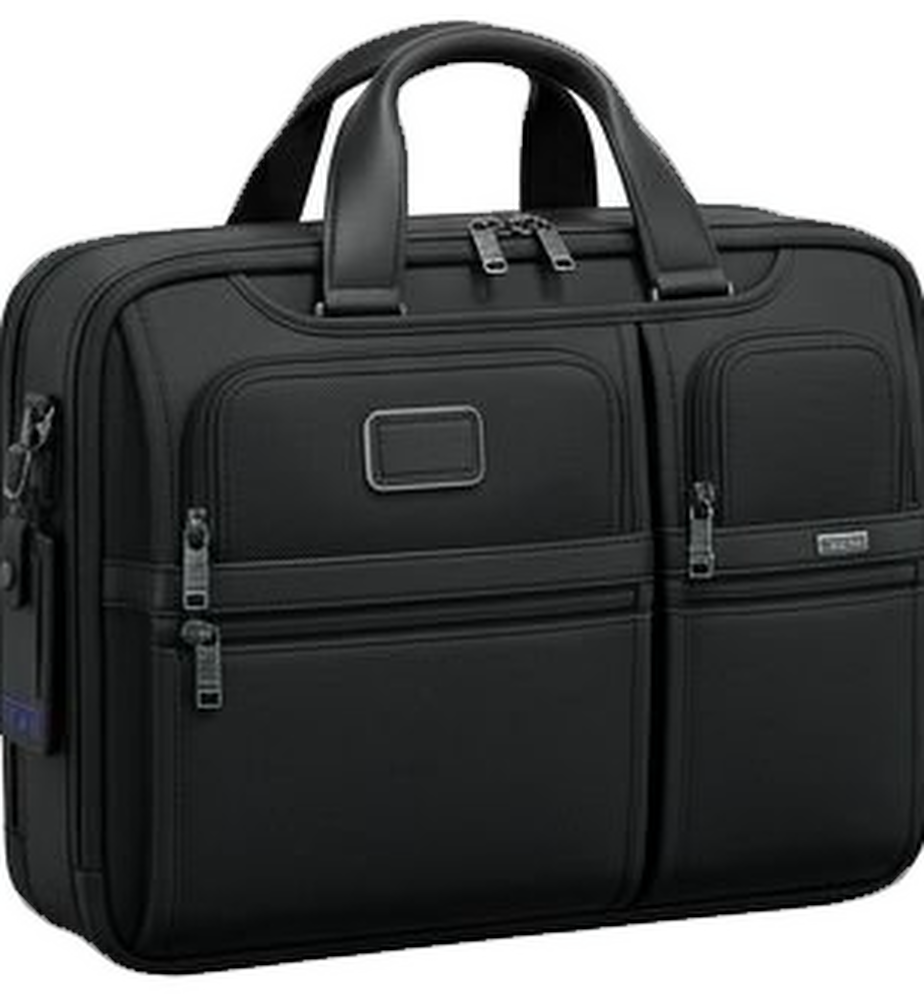
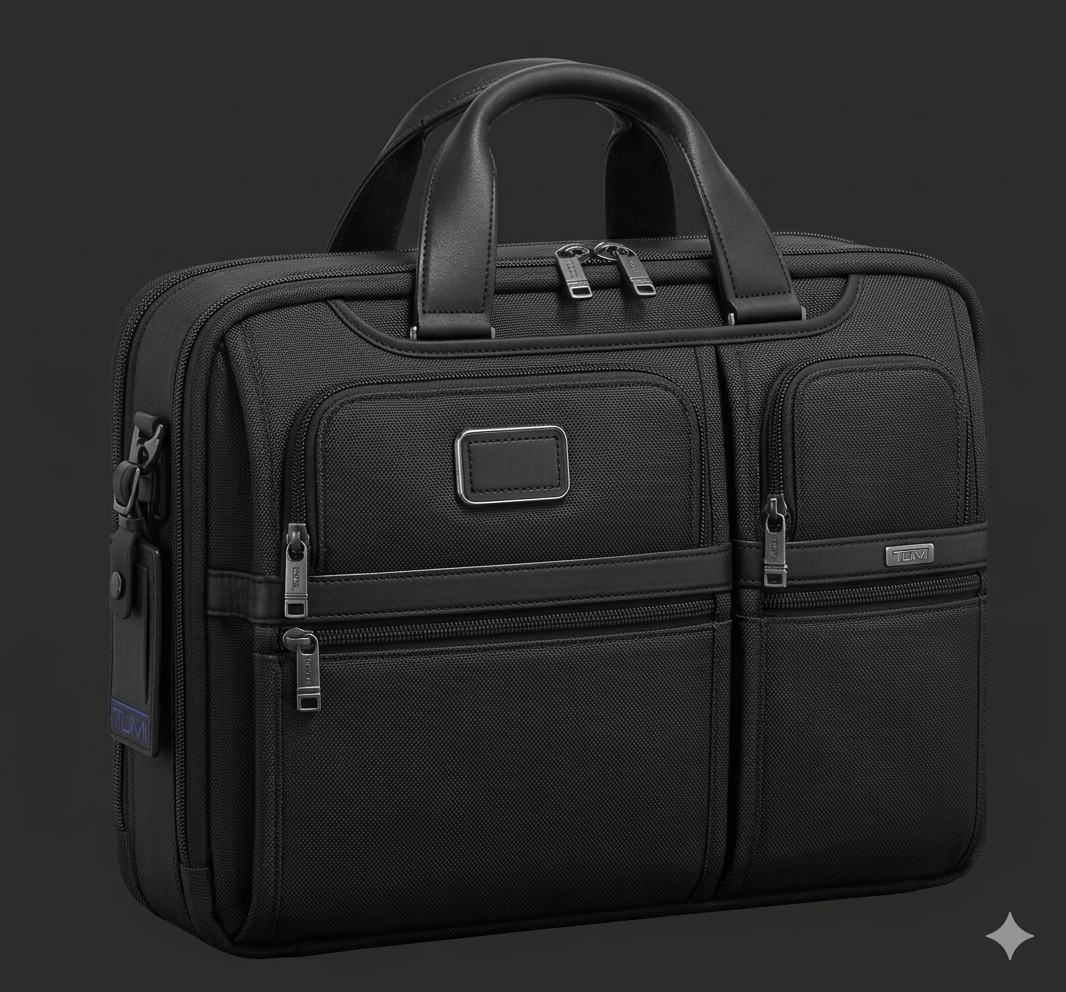
remove carousel

diff --git a/src/pages/BagListing.jsx b/src/pages/BagListing.jsx
@@ -1,11 +1,11 @@
 import { useState, useEffect, useRef, useCallback } from "react";
 import heroBagImg from "../assets/hero_final1.png";
+import heroFinal2 from "../assets/hero_final2.png";
 import { useAuth } from "../context/AuthContext";
 import { useNavigate } from "react-router-dom";
 import { getAllBags, deleteBag } from "../services/bagService";
 import { getAllCategories, deleteCategory } from "../services/categoryService";
 import HeroParticleReveal from "../components/HeroParticleReveal";
-import HeroCarousel3D from "../components/HeroCarousel3D";
 
 /* ── Logo with animated zipper canvas overlay ── */
 const LogoWithZipper = ({ src }) => {
@@ -367,8 +367,136 @@ const BagListing = () => {
             </header>
 
             {/* ── Hero ── */}
-            {/* ── 3D Hero Carousel ── */}
-            <HeroCarousel3D />
+            {/* ── Static Hero Image ── */}
+            <div style={{
+                position: "relative",
+                minHeight: 520,
+                background: "#0D0A0E",
+                overflow: "hidden",
+                display: "flex",
+                alignItems: "center",
+                justifyContent: "center",
+                perspective: "1400px",
+            }}>
+                {/* ── Radial glow ── */}
+                <div style={{
+                    position: "absolute",
+                    inset: 0,
+                    background: "radial-gradient(ellipse 70% 60% at 62% 38%, rgba(180,120,220,0.07), transparent)",
+                    pointerEvents: "none",
+                    zIndex: 0,
+                }} />
+
+                {/* ── Bottom fade ── */}
+                <div style={{
+                    position: "absolute",
+                    bottom: 0,
+                    left: 0,
+                    right: 0,
+                    height: 180,
+                    background: "linear-gradient(to top, #0D0A0E 0%, transparent 100%)",
+                    pointerEvents: "none",
+                    zIndex: 0,
+                }} />
+
+                {/* ── Top edge vignette ── */}
+                <div style={{
+                    position: "absolute",
+                    top: 0,
+                    left: 0,
+                    right: 0,
+                    height: 100,
+                    background: "linear-gradient(to bottom, rgba(0,0,0,0.5), transparent)",
+                    pointerEvents: "none",
+                    zIndex: 0,
+                }} />
+
+                {/* ── Hero text ── */}
+                <section style={{
+                    position: "absolute",
+                    zIndex: 3,
+                    textAlign: "center",
+                    padding: "0 24px",
+                    maxWidth: 760,
+                    width: "100%",
+                    top: "50%",
+                    left: "50%",
+                    transform: "translate(-50%, -50%)",
+                    pointerEvents: "none",
+                }}>
+                    <p style={{
+                        fontSize: 10,
+                        letterSpacing: "0.44em",
+                        textTransform: "uppercase",
+                        color: "rgba(201,168,106,0.45)",
+                        margin: "0 0 20px",
+                        fontFamily: "'Inter', sans-serif",
+                    }}>
+                        Curated luxury travel &amp; executive essentials
+                    </p>
+                    <h2 style={{
+                        fontSize: "clamp(1.9rem, 5.5vw, 3.8rem)",
+                        lineHeight: 1.04,
+                        margin: "0 0 18px",
+                        fontFamily: "'Cormorant Garamond', serif",
+                        letterSpacing: "0.07em",
+                        background: "linear-gradient(135deg,#8B6914 0%,#C9A84C 25%,#E8C96A 45%,#F5DFA0 55%,#C9A84C 75%,#8B6914 100%)",
+                        WebkitBackgroundClip: "text",
+                        WebkitTextFillColor: "transparent",
+                        backgroundClip: "text",
+                        fontWeight: 700,
+                    }}>
+                        TRÉSOR BAGS<br />COLLECTION
+                    </h2>
+                    <p style={{
+                        fontSize: 13,
+                        color: "rgba(216,201,161,0.5)",
+                        lineHeight: 1.9,
+                        margin: 0,
+                        fontStyle: "italic",
+                        fontFamily: "'Cormorant Garamond', serif",
+                        letterSpacing: "0.02em",
+                    }}>
+                        Premium business, travel, and luxury bags<br />designed for the modern executive.
+                    </p>
+                </section>
+
+                {/* ── Hero image ── */}
+                <div style={{
+                    position: "absolute",
+                    inset: 0,
+                    display: "flex",
+                    alignItems: "center",
+                    justifyContent: "center",
+                    zIndex: 1,
+                }}>
+                    <img
+                        src={heroFinal2}
+                        alt="Trésor Bags Collection"
+                        style={{
+                            position: "absolute",
+                            height: "clamp(260px, 58vh, 440px)",
+                            width: "auto",
+                            maxWidth: "58%",
+                            objectFit: "contain",
+                            animation: "h3dFloat 6s ease-in-out infinite",
+                            filter: "drop-shadow(0 44px 88px rgba(0,0,0,0.82)) drop-shadow(0 0 56px rgba(201,168,106,0.1))",
+                            userSelect: "none",
+                            pointerEvents: "none",
+                            left: "50%",
+                            transform: "translateX(-50%)",
+                        }}
+                    />
+                </div>
+            </div>
+            <style>{`
+                @keyframes h3dFloat {
+                    0%,100% { transform: translateX(-50%) translateY(0px)  rotate(-0.5deg) scale(1);     }
+                    25%     { transform: translateX(-50%) translateY(-18px) rotate(0.4deg)  scale(1.014); }
+                    50%     { transform: translateX(-50%) translateY(-28px) rotate(1deg)    scale(1.019); }
+                    75%     { transform: translateX(-50%) translateY(-12px) rotate(0.2deg)  scale(1.009); }
+                }
+            `}</style>
 
             {/* ── Tab Switcher — text-only with underline ── */}
             <div style={S.tabSwitcher}>

diff --git a/src/components/HeroCarousel3D.jsx b/src/components/HeroCarousel3D.jsx
@@ -1,5 +1,25 @@
 import { useState, useEffect, useRef, useCallback } from "react";
-import { getAllBags } from "../services/bagService";
+import bag1 from "../assets/bag1.png";
+import bag2 from "../assets/bag2.png";
+import bag3 from "../assets/bag3.png";
+import bag4 from "../assets/bag4.png";
+import bag5 from "../assets/bag5.png";
+import bag6 from "../assets/bag6.png";
+import bag7 from "../assets/bag7.png";
+import bag8 from "../assets/bag8.png";
+import heroFinal2 from "../assets/hero_final2.png";
+
+const STATIC_BAGS = [
+    { mainImage: heroFinal2, title: "Signature Travel Bag" },
+    { mainImage: bag1, title: "Executive Carryall" },
+    { mainImage: bag2, title: "Luxury Weekender" },
+    { mainImage: bag3, title: "City Tote" },
+    { mainImage: bag4, title: "Urban Backpack" },
+    { mainImage: bag5, title: "Slim Briefcase" },
+    { mainImage: bag6, title: "Weekend Duffle" },
+    { mainImage: bag7, title: "Convertible Satchel" },
+    { mainImage: bag8, title: "Modern Travel Pack" },
+];
 
 /* ── Per-slide luxury dark palettes ── */
 const PALETTES = [
@@ -90,25 +110,18 @@ const SlideImg = ({ src, alt, mode, dir, floating }) => {
 
 /* ══════════════════════════════════════════════════════ */
 const HeroCarousel3D = () => {
-    const [bags, setBags]       = useState([]);
     const [idx, setIdx]         = useState(0);
     const [nextIdx, setNextIdx] = useState(null);
     const [dir, setDir]         = useState("next");
     const [sliding, setSliding] = useState(false);
     const autoRef               = useRef(null);
     const timerRef              = useRef(null);
-
-    /* Fetch all bags independently */
-    useEffect(() => {
-        getAllBags({ limit: 100 })
-            .then(res => { if (res.success) setBags(res.data); })
-            .catch(() => {});
-    }, []);
+    const bags = STATIC_BAGS;
 
     const pal = PALETTES[idx % PALETTES.length];
 
     const go = useCallback((newIdx, direction) => {
-        if (sliding || !bags?.length || newIdx === idx) return;
+        if (sliding || !bags.length || newIdx === idx) return;
         clearTimeout(timerRef.current);
         clearInterval(autoRef.current);
 
@@ -123,8 +136,7 @@ const HeroCarousel3D = () => {
             // Restart auto-advance
             startAuto();
         }, DURATION + 60);
-    // eslint-disable-next-line
-    }, [sliding, bags, idx]);
+    }, [sliding, idx, bags.length]);
 
     const goNext = useCallback(() => {
         if (!bags?.length) return;
@@ -140,7 +152,7 @@ const HeroCarousel3D = () => {
         clearInterval(autoRef.current);
         autoRef.current = setInterval(() => {
             setIdx(prev => {
-                const n = (prev + 1) % (bags?.length || 1);
+                const n = (prev + 1) % bags.length;
                 setDir("next");
                 setNextIdx(n);
                 setSliding(true);
@@ -153,12 +165,12 @@ const HeroCarousel3D = () => {
                 return prev; // state set inside timeout
             });
         }, 5500);
-    }, [bags]);
+    }, [bags.length]);
 
     useEffect(() => {
-        if (bags?.length) startAuto();
+        if (bags.length) startAuto();
         return () => { clearInterval(autoRef.current); clearTimeout(timerRef.current); };
-    }, [bags, startAuto]);
+    }, [bags.length, startAuto]);
 
     if (!bags?.length) {
         return <div style={{ minHeight: 520, background: "#080808" }} />;
@@ -228,7 +240,7 @@ const HeroCarousel3D = () => {
                 {/* ── BEHIND layer: hero text ── */}
                 <section style={{
                     position:  "absolute",
-                    zIndex:    1,
+                    zIndex:    3,
                     textAlign: "center",
                     padding:   "0 24px",
                     maxWidth:  760,
@@ -275,7 +287,7 @@ const HeroCarousel3D = () => {
                 <div style={{
                     position: "absolute", inset: 0,
                     display: "flex", alignItems: "center", justifyContent: "center",
-                    zIndex: 2,
+                    zIndex: 1,
                 }}>
                     {/* Current (exiting when sliding) */}
                     <SlideImg